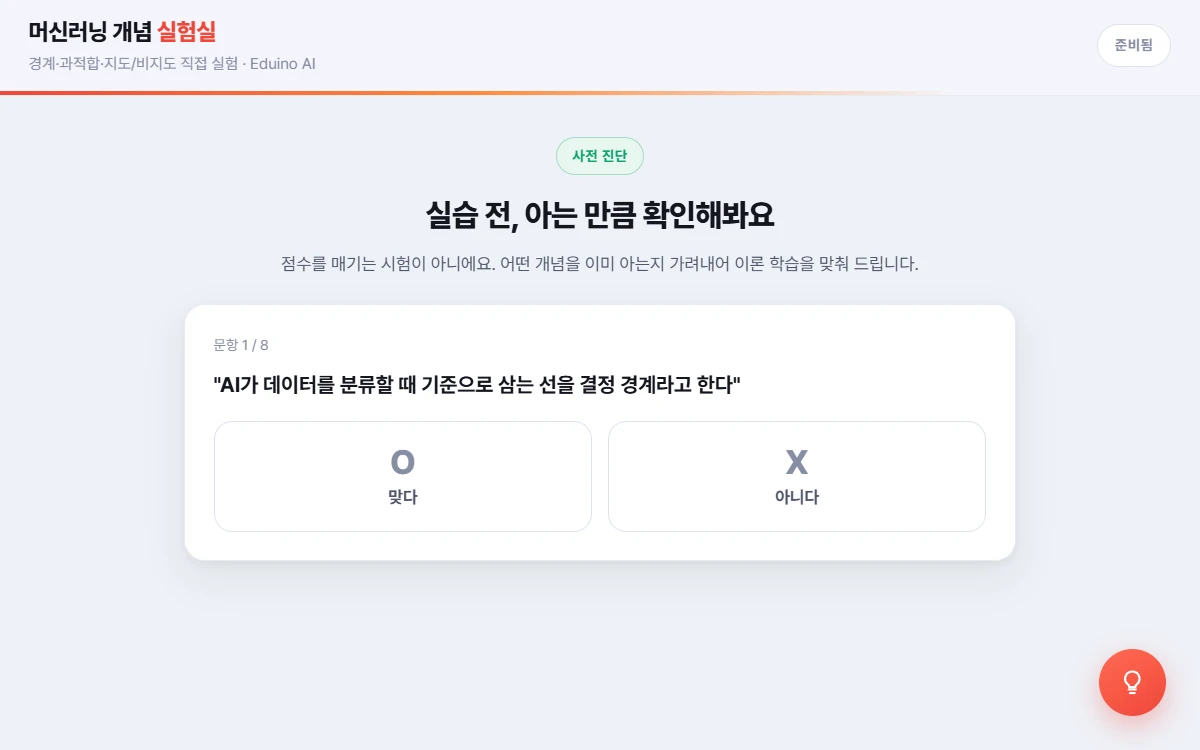
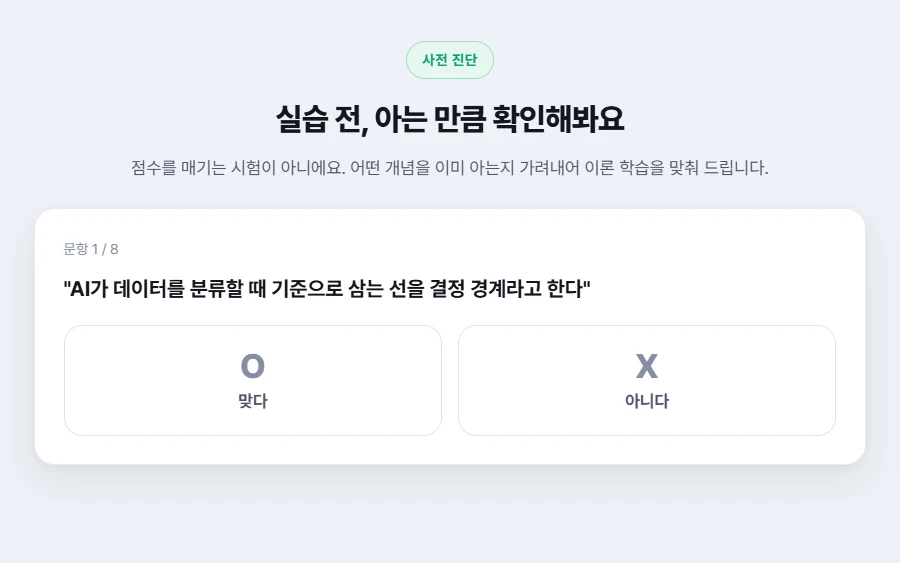
캐러셀 스크린샷을 콘텐츠만 담게 다시 촬영 — normal · console
화면 상단바가 스크린샷 안에 또 들어 있었다. 카드 위에 이미 "01 사전 진단",
"02 카드로 고르기" 같은 제목이 붙어 있는데 그 아래 그림에서 또 제목 줄이 나오니
같은 말이 두 번 나오고, 정작 보여주려던 내용은 그만큼 작아졌다.

- normal: 코스 topbar(제목·상태칩)를 프레임 밖으로 밀어냈다. 창 높이를
  (토프바 + 750) 으로 맞추고 크롭을 .dash-main 윗변에서 시작한다.
- console: 상단바와 하단 키 안내를 캡처 때만 감췄다. .v-hud 도 header.hud 도
  일반 흐름(flex:none)이라 감추면 내용이 그만큼 위로 올라와 프레임을 더 잘 채운다
  — 크롭 오프셋을 계산할 필요가 없다.
- 다만 '바로 관찰'과 '직접 제작'은 상단바를 그대로 뒀다. 거기에는 "객체 탐지",
  "이미지 분류" 라는 스테이지 이름이 적혀 있어 그림의 일부로 읽힌다.

normal 은 여기에 더해 내용 둘레로 16:10 을 다시 잡는다. 사전 진단·최종 평가는
화면이 짧아 프레임의 3~4할이 빈 배경이었다. 가로 범위는 블록 요소의 상자로는 못
잰다 — <p> 는 글씨가 가운데 몰려 있어도 상자가 본문 폭을 다 차지하기 때문이다.
그래서 글씨는 Range 로 실제 글자 범위를 재고, 배경·테두리가 있는 상자(카드·버튼)만
상자째로 셌다. 그 결과 원본 크기가 장마다 다르다:

  step-1  900x563  (내용에 맞춤)   step-2  1200x750 (전체)
  step-4 1030x644  (내용에 맞춤)   step-3  1200x750 (전체)

비율은 모두 16:10 이라 화면에서는 똑같은 자리에 똑같이 보인다. 대신 <img> 의
width/height 속성을 뺐다 — 이제 장마다 값이 다르고, 자리 예약은 .fs-shot 의
aspect-ratio 가 이미 하고 있다.

용량: normal 133KB(4장), console 372KB(6장).

확인: Electron 으로 normal 랜딩을 1920x1200 / 1320x1040 / 900 / 800 / 768 에서
렌더해 머리말~점 블록이 화면 안에 들어오는 것, 모든 폭에서 프레임 비율 0.625 유지,
슬라이드 높이 동일, 가로 오버플로 0. 열 장 모두 16:10 인 것도 파일 헤더로 확인.

diff --git a/eduino-normal/platform/index.html b/eduino-normal/platform/index.html
@@ -1468,7 +1468,9 @@
       /* lazy 를 쓰지 않는다. 2~4번 슬라이드는 트랙 안에서 오른쪽으로 한두 화면 밀려 있어
          lazy 임계 밖이라, 화살표를 눌러야 그때 받아오기 시작해 빈 칸이 번쩍인다.
          네 장 합쳐 148KB 뿐이라 전부 받되 히어로와 경쟁하지 않게 우선순위만 낮춘다.
-         width/height 는 실제 파일 픽셀 — 이미지가 늦게 와도 자리가 안 흔들린다. */
+         width/height 는 쓰지 않는다. 장마다 원본 픽셀 크기가 다르기 때문이다(내용에 맞춰
+         잘라 900x563 짜리도 있고 1200x750 짜리도 있다). 비율은 모두 16:10 이고,
+         자리 예약은 .fs-shot 의 aspect-ratio 가 이미 하고 있어 흔들리지 않는다. */
       track.innerHTML = FLOW.map((s, i) =>
         `<article class="fslide fs-t${i + 1}" role="group" aria-roledescription="슬라이드" aria-label="${i + 1} / ${FLOW.length} · ${s.title}">
         <div class="fs-text">
@@ -1476,7 +1478,7 @@
           <h3>${s.title}</h3><p>${s.desc}</p>
         </div>
         <div class="fs-shot">
-          <img src="/platform/img/flow/${s.shot}.webp" alt="${s.alt}" width="1200" height="750"
+          <img src="/platform/img/flow/${s.shot}.webp" alt="${s.alt}"
             decoding="async" fetchpriority="${i === 0 ? 'high' : 'low'}">
         </div>
       </article>`).join('');
